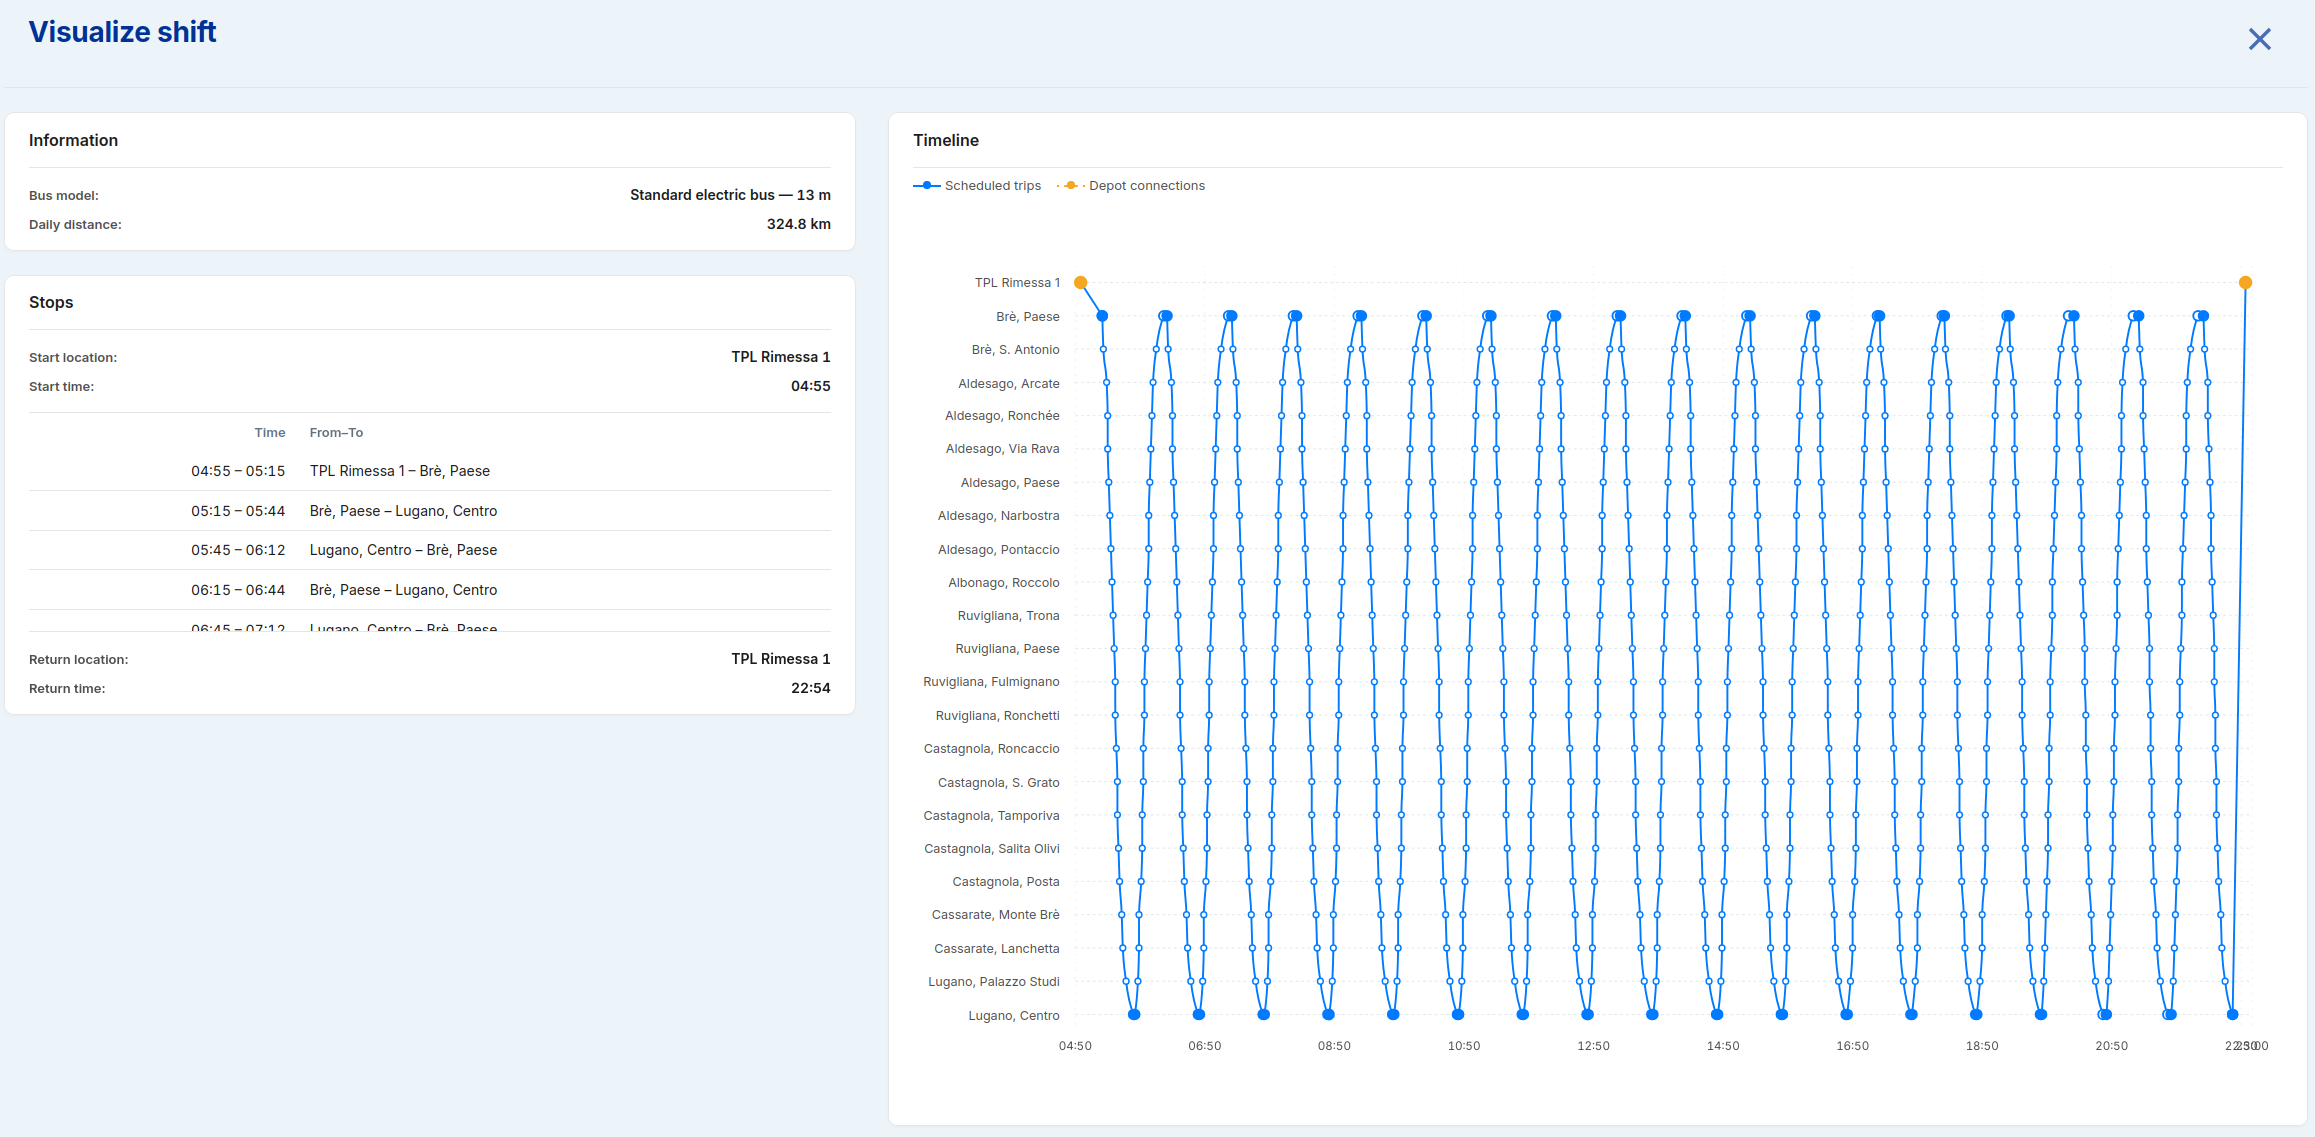
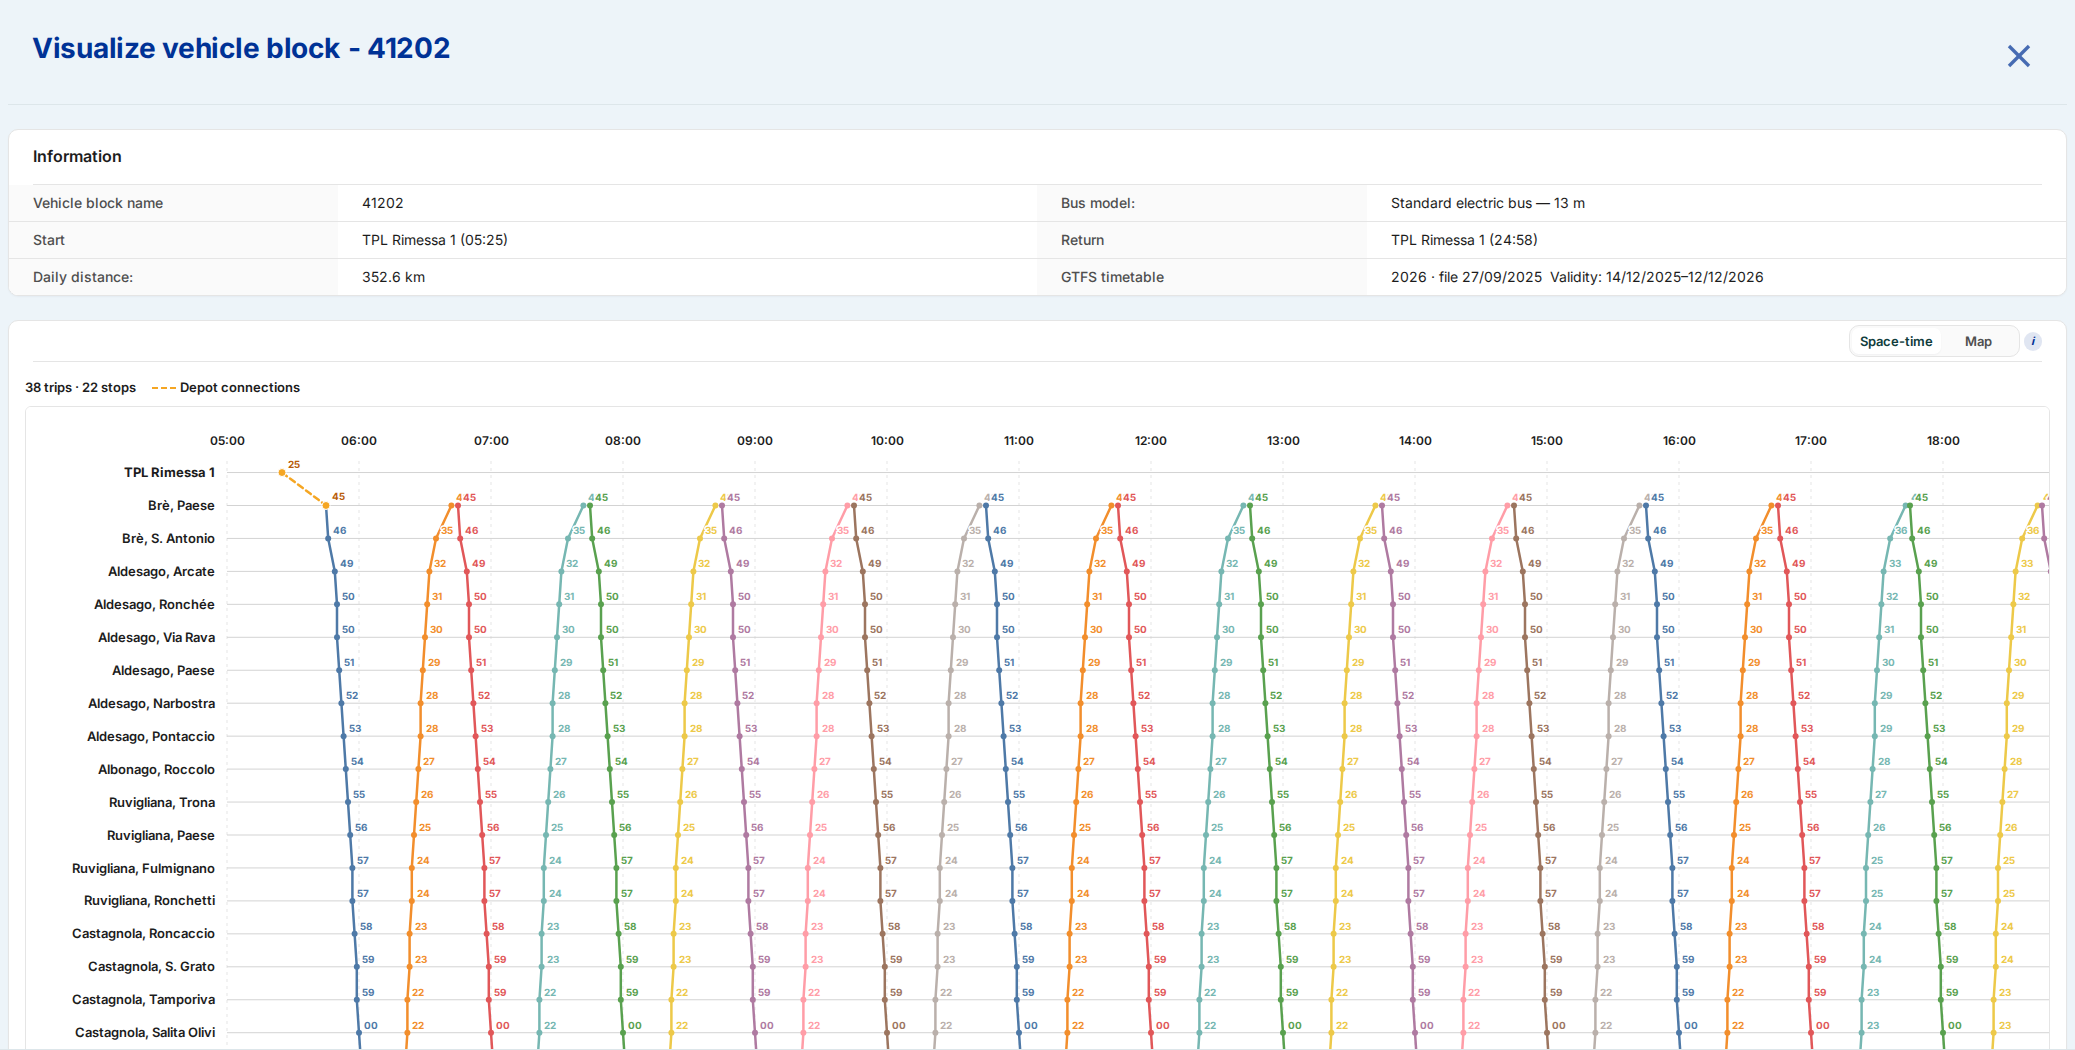
docs: update shift visualization guide

diff --git a/guide/content.js b/guide/content.js
@@ -1,7 +1,7 @@
 import { useCaseSections } from "./use-cases.js";
 
 export const GUIDE_BASELINE_VERSION = "0.11.0";
-export const GUIDE_UPDATED_AT = "10 November 2026";
+export const GUIDE_UPDATED_AT = "12 November 2026";
 
 export const SUPPORTED_GUIDE_LANGUAGES = ["en", "de", "fr", "it"];
 
@@ -36,10 +36,10 @@ const GUIDE_FIGURES = {
   shift: {
     src: shiftVisualisationImage,
     captions: {
-      en: "Vehicle block visualisation showing vehicle block information, ordered movements, depot connections and the operating timeline.",
-      de: "Visualisierung eines Fahrzeugumlaufs mit Betriebsinformationen, geordneten Fahrten, Depotverbindungen und Zeitachse.",
-      fr: "Visualisation d’un service voiture avec ses informations, les mouvements ordonnés, les liaisons au dépôt et la chronologie d’exploitation.",
-      it: "Visualizzazione di un turno macchina con informazioni, movimenti ordinati, collegamenti al deposito e linea temporale operativa.",
+      en: "Vehicle block visualisation with general information and the default space-time diagram. The toggle also opens a trip-by-trip map; depot connections are included in both views.",
+      de: "Visualisierung eines Fahrzeugumlaufs mit allgemeinen Informationen und dem standardmässigen Raum-Zeit-Diagramm. Über den Umschalter lässt sich auch eine Karte für jede einzelne Fahrt öffnen; Depotverbindungen sind in beiden Ansichten enthalten.",
+      fr: "Visualisation d’un service voiture avec ses informations générales et le diagramme espace-temps affiché par défaut. Le sélecteur ouvre aussi une carte course par course; les liaisons au dépôt figurent dans les deux vues.",
+      it: "Visualizzazione di un turno macchina con informazioni generali e diagramma spazio-tempo predefinito. Il selettore apre anche la mappa corsa per corsa; i collegamenti al deposito sono inclusi in entrambe le viste.",
     },
   },
   feasibilityForm: {
@@ -235,6 +235,10 @@ export const guideContent = {
             title: "Find or duplicate saved vehicle blocks",
             text: "Search checks the complete server-side list before pagination, so a match remains discoverable beyond the current page. Select one or more blocks and use Duplicate to copy their trips, bus model and recorded GTFS edition before editing the copies.",
           },
+          {
+            title: "Visualise a saved vehicle block",
+            text: "Open Visualise/Details to review the general information and the complete movement chain. Space-time is the default view: time runs horizontally, stops vertically, multi-line work is separated by route, and depot connections are dashed. Switch to Map to inspect one movement at a time, including its stops and times, with First, Previous, Next and Last. A warning identifies discontinuities caused by missing transfer data rather than drawing an invented connection.",
+          },
         ],
         figures: getGuideFigures("en", "shift"),
         note: {
@@ -424,7 +428,7 @@ export const guideContent = {
       baselineLabel: "Stand der Benutzeroberfläche",
       baselineValue: `Frontend v${GUIDE_BASELINE_VERSION}`,
       updatedLabel: "Handbuch aktualisiert",
-      updatedValue: "10. November 2026",
+      updatedValue: "12. November 2026",
       footer:
         "ELETTRA unterstützt Vorstudien. Endgültige Fahrzeug-, Lade-, Netz- und Infrastrukturentscheidungen müssen durch eine detaillierte Fachplanung bestätigt werden.",
       skipLink: "Zum Handbuch springen",
@@ -499,6 +503,7 @@ export const guideContent = {
           { title: "Grenzen des Fahrzeugumlaufs festlegen", text: "Wählen Sie Start- und Rückkehrort sowie die Zeiten. ELETTRA berücksichtigt die Verbindungsfahrten, die für den vollständigen Fahrzeugumlauf benötigt werden." },
           { title: "Prüfen und speichern", text: "Prüfen Sie Fahrtenfolge, Zeitachse, Distanz sowie Karten- und Höhenkontext. Korrigieren Sie Lücken oder unplausible Zeiten vor dem Speichern." },
           { title: "Gespeicherte Fahrzeugumläufe finden oder duplizieren", text: "Die Suche prüft die vollständige serverseitige Liste vor der Seitennummerierung, sodass Treffer auch ausserhalb der aktuellen Seite gefunden werden. Wählen Sie einen oder mehrere Fahrzeugumläufe und verwenden Sie Duplizieren, um Fahrten, Busmodell und gespeicherte GTFS-Ausgabe zu übernehmen." },
+          { title: "Gespeicherten Fahrzeugumlauf visualisieren", text: "Öffnen Sie Visualisieren/Details, um die allgemeinen Informationen und die vollständige Bewegungskette zu prüfen. Raum-Zeit ist die Standardansicht: Die Zeit verläuft horizontal, die Haltestellen vertikal, Mehrlinien-Umläufe werden nach Linie getrennt und Depotverbindungen gestrichelt dargestellt. Wechseln Sie zu Karte, um jede Bewegung mit Haltestellen und Zeiten einzeln über Erste, Vorherige, Nächste und Letzte zu prüfen. Ein Hinweis kennzeichnet Unterbrechungen durch fehlende Überführungsdaten, statt eine Verbindung zu erfinden." },
         ],
         figures: getGuideFigures("de", "shift"),
         note: { title: "Warum der vollständige Fahrzeugumlauf wichtig ist", text: "Depot- und Überführungsfahrten benötigen Energie, auch wenn keine Fahrgäste befördert werden. Ihr Weglassen kann die Bewertung zu optimistisch machen." },
@@ -591,7 +596,7 @@ export const guideContent = {
       baselineLabel: "Version de référence de l’interface",
       baselineValue: `Frontend v${GUIDE_BASELINE_VERSION}`,
       updatedLabel: "Guide mis à jour",
-      updatedValue: "10 novembre 2026",
+      updatedValue: "12 novembre 2026",
       footer:
         "ELETTRA soutient les études de préfaisabilité. Les décisions finales relatives aux véhicules, à la recharge, au réseau et aux infrastructures doivent être confirmées par des études d’ingénierie détaillées.",
       skipLink: "Accéder au guide",
@@ -652,6 +657,7 @@ export const guideContent = {
           { title: "Définir les limites du service voiture", text: "Sélectionnez les lieux et heures de départ et de retour. ELETTRA inclut les déplacements auxiliaires nécessaires pour représenter la mission complète." },
           { title: "Vérifier et enregistrer", text: "Contrôlez la séquence, la chronologie, la distance et le contexte cartographique et altimétrique. Corrigez les lacunes ou horaires invraisemblables avant l’enregistrement." },
           { title: "Rechercher ou dupliquer les services enregistrés", text: "La recherche interroge la liste complète côté serveur avant la pagination, afin de retrouver une correspondance au-delà de la page courante. Sélectionnez un ou plusieurs services et utilisez Dupliquer pour reprendre leurs courses, leur modèle de bus et leur édition GTFS enregistrée." },
+          { title: "Visualiser un service voiture enregistré", text: "Ouvrez Visualiser/Détails pour contrôler les informations générales et la chaîne complète des mouvements. Espace-temps est la vue par défaut: le temps est horizontal, les arrêts verticaux, les services multiligne sont séparés par ligne et les liaisons au dépôt sont en pointillés. Passez à Carte pour examiner chaque mouvement, ses arrêts et ses horaires avec Première, Précédente, Suivante et Dernière. Un avertissement signale les discontinuités dues à des données de transfert manquantes au lieu d’inventer une liaison." },
         ],
         figures: getGuideFigures("fr", "shift"),
         note: { title: "Pourquoi la mission complète est importante", text: "Les déplacements depuis le dépôt et les transferts consomment de l’énergie même sans passagers. Les omettre peut rendre l’évaluation trop optimiste." },
@@ -744,7 +750,7 @@ export const guideContent = {
       baselineLabel: "Versione di riferimento dell’interfaccia",
       baselineValue: `Frontend v${GUIDE_BASELINE_VERSION}`,
       updatedLabel: "Guida aggiornata",
-      updatedValue: "10 novembre 2026",
+      updatedValue: "12 novembre 2026",
       footer:
         "ELETTRA supporta studi di prefattibilità. Le decisioni finali su veicoli, ricarica, rete e infrastrutture devono essere confermate mediante una progettazione tecnica dettagliata.",
       skipLink: "Vai alla guida",
@@ -805,6 +811,7 @@ export const guideContent = {
           { title: "Definire i limiti del servizio", text: "Selezionare località e orari di partenza e ritorno. ELETTRA include gli spostamenti ausiliari necessari per rappresentare il servizio completo." },
           { title: "Verificare e salvare", text: "Controllare sequenza, linea temporale, distanza e contesto cartografico e altimetrico. Correggere lacune o tempi non plausibili prima di salvare." },
           { title: "Cercare o duplicare i turni salvati", text: "La ricerca interroga l’elenco completo sul server prima della paginazione, quindi trova corrispondenze oltre la pagina corrente. Selezionare uno o più turni e usare Duplica per copiarne corse, modello di autobus ed edizione GTFS registrata prima di modificare le copie." },
+          { title: "Visualizzare un turno salvato", text: "Aprire Visualizza/Dettagli per controllare le informazioni generali e la catena completa dei movimenti. Spazio-tempo è la vista predefinita: il tempo scorre in orizzontale, le fermate in verticale, i turni multilinea sono separati per linea e i collegamenti al deposito sono tratteggiati. Passare a Mappa per esaminare un movimento alla volta con fermate e orari usando Prima, Precedente, Successiva e Ultima. Un avviso segnala le discontinuità dovute a dati di trasferimento mancanti invece di inventare un collegamento." },
         ],
         figures: getGuideFigures("it", "shift"),
         note: { title: "Perché il servizio completo è importante", text: "Gli spostamenti da deposito e di trasferimento consumano energia anche senza passeggeri. Ometterli può rendere la valutazione troppo ottimistica." },

diff --git a/tests/e2e/user-guide.spec.js b/tests/e2e/user-guide.spec.js
@@ -32,7 +32,7 @@ const LANGUAGES = {
     yearlyTerms: ["Review Costs and Emissions for the fleet", "annual DC energy"],
     releaseTerms: {
       start: ["Home", "user guide"],
-      shifts: ["GTFS", "complete server-side list"],
+      shifts: ["GTFS", "complete server-side list", "Space-time", "Map"],
       feasibility: ["one GTFS edition", "Duplicate"],
       results: ["Configured SOC window", "initial physical-maximum reference"],
       yearly: ["recorded provenance"],
@@ -46,7 +46,7 @@ const LANGUAGES = {
     yearlyTerms: ["Kosten und Emissionen der Flotte prüfen", "jährlichen DC-Energie"],
     releaseTerms: {
       start: ["Startseite", "Benutzerhandbuch"],
-      shifts: ["GTFS", "vollständige serverseitige Liste"],
+      shifts: ["GTFS", "vollständige serverseitige Liste", "Raum-Zeit", "Karte"],
       feasibility: ["GTFS-Ausgabe", "Duplizieren"],
       results: ["Konfiguriertes SOC-Fenster", "physischen Maximum"],
       yearly: ["aufgezeichnete Herkunft"],
@@ -60,7 +60,7 @@ const LANGUAGES = {
     yearlyTerms: ["Examiner les Coûts et les Émissions de la flotte", "énergie DC annuelle"],
     releaseTerms: {
       start: ["Accueil", "guide"],
-      shifts: ["GTFS", "liste complète côté serveur"],
+      shifts: ["GTFS", "liste complète côté serveur", "Espace-temps", "Carte"],
       feasibility: ["édition GTFS", "Dupliquer"],
       results: ["Fenêtre SOC configurée", "maximum physique"],
       yearly: ["provenance enregistrée"],
@@ -74,7 +74,7 @@ const LANGUAGES = {
     yearlyTerms: ["Esaminare Costi ed Emissioni della flotta", "energia DC annuale"],
     releaseTerms: {
       start: ["Home", "guida utente"],
-      shifts: ["GTFS", "elenco completo sul server"],
+      shifts: ["GTFS", "elenco completo sul server", "Spazio-tempo", "Mappa"],
       feasibility: ["una sola edizione GTFS", "Duplica"],
       results: ["Intervallo SOC configurato", "massimo fisico"],
       yearly: ["provenienza registrata"],

diff --git a/docs/user-guide/shifts-and-routes.md b/docs/user-guide/shifts-and-routes.md
@@ -1,6 +1,6 @@
 # Vehicle Blocks and Routes
 
-> Last updated: 2026-11-09
+> Last updated: 2026-11-12
 > Interface baseline: Frontend v0.11.0
 
 A vehicle block is the ordered service assigned to one bus over a day. It joins
@@ -73,6 +73,33 @@ current edition when they must be used in new work.
 
 ---
 
+## Visualize a saved vehicle block
+
+Choose **Visualize/Details** from the vehicle-block list to open the complete
+saved duty. The information table identifies the vehicle block, bus model,
+start and return locations and times, daily distance, and recorded GTFS
+timetable.
+
+The visualization offers two views:
+
+- **Space-time** is selected by default. Time runs horizontally and the ordered
+  stops run vertically. Each scheduled trip is plotted with its stop times;
+  dashed segments identify movements to or from a depot. Vehicle blocks that
+  serve more than one line are split into separate route groups, while route
+  variants and terminal loops retain their actual stop sequence.
+- **Map** presents one movement at a time. **First**, **Previous**, **Next**, and
+  **Last** move through the complete duty, including the initial and final depot
+  movements. The side list shows every available stop and time for the selected
+  movement. Opening this view loads the configured CARTO basemap tiles.
+
+Some historical duties contain a discontinuity: one recorded movement ends at
+one stop and the following movement starts elsewhere without an intermediate
+transfer. ELETTRA does not invent the missing path. It shows separate segments
+and reports the affected locations and times next to the view selector. Review
+the source data before using such a duty operationally.
+
+---
+
 ## Find, edit, duplicate, and delete
 
 The list shows the name, bus model, start/end time, distance, and route summary.
@@ -85,8 +112,8 @@ It supports sorting, pagination, and these actions:
 - **Duplicate** accepts one or more selected blocks and copies their trips, bus
   model, and recorded GTFS edition into new editable records.
 - **Delete** removes the selected records after confirmation.
-- **Visualize/Details** shows the ordered movements, depot connections, service
-  information, and timeline.
+- **Visualize/Details** shows general information, the default space-time
+  diagram, and the trip-by-trip map with depot connections.
 
 Review dependent evaluations and analyses before changing or deleting a block
 that has already been used.

diff --git a/docs/README.md b/docs/README.md
@@ -1,6 +1,6 @@
 # ELETTRA Documentation
 
-> Last updated: 2026-11-10
+> Last updated: 2026-11-12
 
 **ELETTRA** (Electric Transport Transition Assessment) is a web tool for electric bus fleet planning and simulation, developed within the ELETTRA research project to support public transport companies in transitioning to electric bus fleets.
 
@@ -27,7 +27,7 @@ This repository contains the **frontend only** — a Vite-based single-page appl
 
 - [Overview](user-guide/overview.md) — Application layout, navigation, supported languages
 - [Fleet Management](user-guide/fleet-management.md) — Bus models and custom operational locations
-- [Vehicle Blocks and Routes](user-guide/shifts-and-routes.md) — GTFS provenance, scheduled trips, auxiliary journeys, and timelines
+- [Vehicle Blocks and Routes](user-guide/shifts-and-routes.md) — GTFS provenance, scheduled trips, auxiliary journeys, space-time diagrams, and trip maps
 - [Feasibility Evaluation](user-guide/feasibility-evaluation.md) — Configuring and launching optimization runs
 - [Feasibility Results](user-guide/simulation-results.md) — Technical verdicts, Mean/Q95 designs, SOC, and charging
 - [Yearly Analysis](user-guide/yearly-analysis.md) — Fleet costs/emissions, per-vehicle-block efficiency, HVAC provenance, and JSON export

diff --git a/README.md b/README.md
@@ -33,6 +33,16 @@ VITE_API_PROXY_TARGET=http://127.0.0.1:8002 npm run dev
 The application is built for the `/elettra/` base path. The public, localized
 guide is included in the same build at `/elettra/guide/`.
 
+## Vehicle-block visualization
+
+Saved vehicle blocks open with a space-time diagram that plots time against the
+ordered stops, separates multi-line work by route, includes depot connections,
+and flags discontinuities caused by missing transfer data. The Map view steps
+through every recorded movement, including the initial and final depot legs,
+and lists its stops and times. The creation and editing form keeps its compact
+timeline for checking the sequence before saving; the saved-block visualization
+offers only the Space-time and Map toggle options.
+
 ## Production build
 
 ```bash
